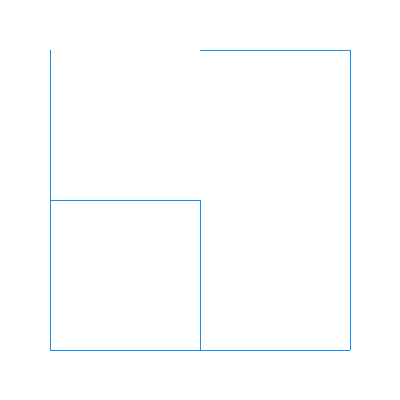
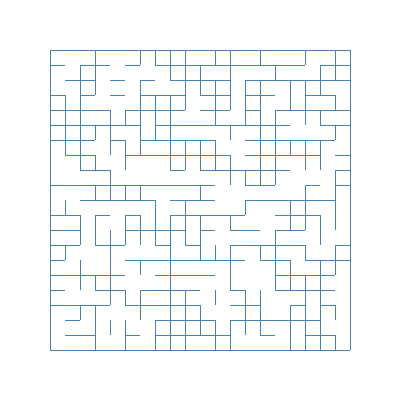
FIX: problemas com borda

diff --git a/src/maze.cpp b/src/maze.cpp
@@ -166,7 +166,7 @@ namespace mzr{
 			}
 			if (!is_border_wall(element, Maze::cell_e::BottomWall))
 			{
-				auto bottom_neighbor = maze[xy_to_vet(element.x, element.y) - cols];
+				auto bottom_neighbor = maze[xy_to_vet(element.x, element.y) + cols];
 				if( bottom_neighbor.wall[Maze::cell_e::UpperWall] != element.wall[Maze::cell_e::BottomWall])
 				{
 					fix(element, bottom_neighbor, Maze::cell_e::BottomWall, Maze::cell_e::UpperWall);

diff --git a/src/driver_maze.cpp b/src/driver_maze.cpp
@@ -8,7 +8,7 @@
 int main(void)
 {
     // Cria um labirinto 5 x 7.
-    mzr::Maze m( 2, 2 );
+    mzr::Maze m( 20, 20 );
     m.create_maze();
     m.create_hash();
         //for(std::vector <int> &hash: m.hashs ) {
